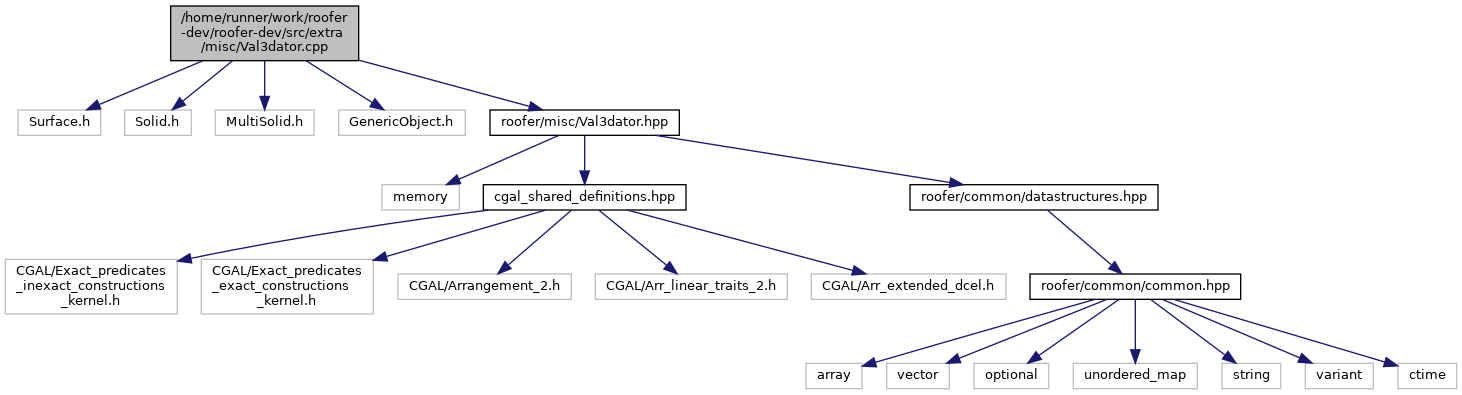
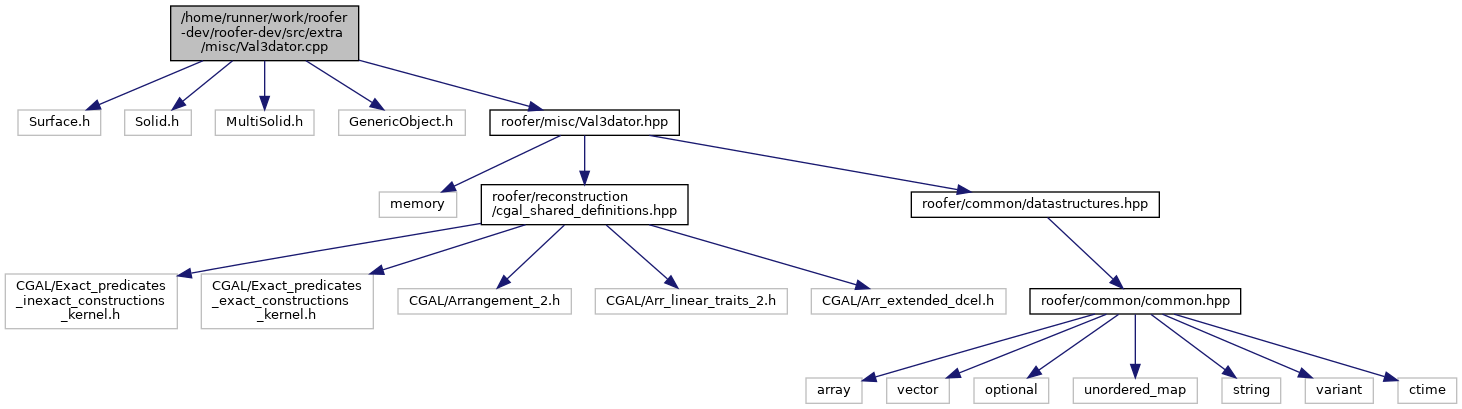
deploy: adacab7c376d5c6933e70c817b09e880449bda90

diff --git a/logger_8h_source.html b/logger_8h_source.html
@@ -154,12 +154,12 @@ $(function() {
 <div class="ttc" id="aclassroofer_1_1logger_1_1Logger_html_a6a1d8f8ffb486d251532eac3edf14b26"><div class="ttname"><a href="classroofer_1_1logger_1_1Logger.html#a6a1d8f8ffb486d251532eac3edf14b26">roofer::logger::Logger::warning</a></div><div class="ttdeci">void warning(fmt::format_string&lt; Args... &gt; fmt, Args &amp;&amp;...args)</div><div class="ttdef"><b>Definition:</b> logger.h:71</div></div>
 <div class="ttc" id="aclassroofer_1_1logger_1_1Logger_html_a8a66f77a029d2ba2918ddb418bcb233c"><div class="ttname"><a href="classroofer_1_1logger_1_1Logger.html#a8a66f77a029d2ba2918ddb418bcb233c">roofer::logger::Logger::error</a></div><div class="ttdeci">void error(fmt::format_string&lt; Args... &gt; fmt, Args &amp;&amp;...args)</div><div class="ttdef"><b>Definition:</b> logger.h:76</div></div>
 <div class="ttc" id="aclassroofer_1_1logger_1_1Logger_html_a93c798df8ffba2558db974d88a9c8ad3"><div class="ttname"><a href="classroofer_1_1logger_1_1Logger.html#a93c798df8ffba2558db974d88a9c8ad3">roofer::logger::Logger::info</a></div><div class="ttdeci">void info(fmt::format_string&lt; Args... &gt; fmt, Args &amp;&amp;...args)</div><div class="ttdef"><b>Definition:</b> logger.h:66</div></div>
-<div class="ttc" id="aclassroofer_1_1logger_1_1Logger_html_a9ae66fa2ff2a0ca649a3e145b31fcbd2"><div class="ttname"><a href="classroofer_1_1logger_1_1Logger.html#a9ae66fa2ff2a0ca649a3e145b31fcbd2">roofer::logger::Logger::get_logger</a></div><div class="ttdeci">static Logger &amp; get_logger()</div><div class="ttdoc">Returns a reference to the single logger instance.</div><div class="ttdef"><b>Definition:</b> logger.cpp:104</div></div>
+<div class="ttc" id="aclassroofer_1_1logger_1_1Logger_html_a9ae66fa2ff2a0ca649a3e145b31fcbd2"><div class="ttname"><a href="classroofer_1_1logger_1_1Logger.html#a9ae66fa2ff2a0ca649a3e145b31fcbd2">roofer::logger::Logger::get_logger</a></div><div class="ttdeci">static Logger &amp; get_logger()</div><div class="ttdoc">Returns a reference to the single logger instance.</div><div class="ttdef"><b>Definition:</b> logger.cpp:102</div></div>
 <div class="ttc" id="aclassroofer_1_1logger_1_1Logger_html_ab65290f387122f8678eb3fc0406d5129"><div class="ttname"><a href="classroofer_1_1logger_1_1Logger.html#ab65290f387122f8678eb3fc0406d5129">roofer::logger::Logger::debug</a></div><div class="ttdeci">void debug(fmt::format_string&lt; Args... &gt; fmt, Args &amp;&amp;...args)</div><div class="ttdef"><b>Definition:</b> logger.h:61</div></div>
-<div class="ttc" id="aclassroofer_1_1logger_1_1Logger_html_abaf92514bcc9039aa8437c6ab6e5150c"><div class="ttname"><a href="classroofer_1_1logger_1_1Logger.html#abaf92514bcc9039aa8437c6ab6e5150c">roofer::logger::Logger::set_level</a></div><div class="ttdeci">void set_level(LogLevel level)</div><div class="ttdoc">Set the minimum level for the logger implementation.</div><div class="ttdef"><b>Definition:</b> logger.cpp:99</div></div>
+<div class="ttc" id="aclassroofer_1_1logger_1_1Logger_html_abaf92514bcc9039aa8437c6ab6e5150c"><div class="ttname"><a href="classroofer_1_1logger_1_1Logger.html#abaf92514bcc9039aa8437c6ab6e5150c">roofer::logger::Logger::set_level</a></div><div class="ttdeci">void set_level(LogLevel level)</div><div class="ttdoc">Set the minimum level for the logger implementation.</div><div class="ttdef"><b>Definition:</b> logger.cpp:97</div></div>
 <div class="ttc" id="aclassroofer_1_1logger_1_1Logger_html_abc5eed947d380872549687e7aa02389e"><div class="ttname"><a href="classroofer_1_1logger_1_1Logger.html#abc5eed947d380872549687e7aa02389e">roofer::logger::Logger::~Logger</a></div><div class="ttdeci">~Logger()=default</div></div>
 <div class="ttc" id="aclassroofer_1_1logger_1_1Logger_html_adb2f083c86b41b0d7c11d1ef8833f4c7"><div class="ttname"><a href="classroofer_1_1logger_1_1Logger.html#adb2f083c86b41b0d7c11d1ef8833f4c7">roofer::logger::Logger::critical</a></div><div class="ttdeci">void critical(fmt::format_string&lt; Args... &gt; fmt, Args &amp;&amp;...args)</div><div class="ttdef"><b>Definition:</b> logger.h:81</div></div>
-<div class="ttc" id="anamespaceroofer_1_1logger_html"><div class="ttname"><a href="namespaceroofer_1_1logger.html">roofer::logger</a></div><div class="ttdoc">Logger library for roofer.</div><div class="ttdef"><b>Definition:</b> logger.cpp:42</div></div>
+<div class="ttc" id="anamespaceroofer_1_1logger_html"><div class="ttname"><a href="namespaceroofer_1_1logger.html">roofer::logger</a></div><div class="ttdoc">Logger library for roofer.</div><div class="ttdef"><b>Definition:</b> logger.cpp:40</div></div>
 <div class="ttc" id="anamespaceroofer_1_1logger_html_a78852f4f987d2d2adc98bc4232184047"><div class="ttname"><a href="namespaceroofer_1_1logger.html#a78852f4f987d2d2adc98bc4232184047">roofer::logger::LogLevel</a></div><div class="ttdeci">LogLevel</div><div class="ttdef"><b>Definition:</b> logger.h:28</div></div>
 <div class="ttc" id="anamespaceroofer_1_1logger_html_a78852f4f987d2d2adc98bc4232184047a3262d48df5d75e3452f0f16b313b7808"><div class="ttname"><a href="namespaceroofer_1_1logger.html#a78852f4f987d2d2adc98bc4232184047a3262d48df5d75e3452f0f16b313b7808">roofer::logger::LogLevel::off</a></div><div class="ttdeci">@ off</div></div>
 <div class="ttc" id="anamespaceroofer_1_1logger_html_a78852f4f987d2d2adc98bc4232184047a6637b88286cba926cc1bb0ef49f9d2e8"><div class="ttname"><a href="namespaceroofer_1_1logger.html#a78852f4f987d2d2adc98bc4232184047a6637b88286cba926cc1bb0ef49f9d2e8">roofer::logger::LogLevel::default_level</a></div><div class="ttdeci">@ default_level</div></div>

diff --git a/Val3dator_8hpp.html b/Val3dator_8hpp.html
@@ -75,7 +75,7 @@ $(function() {
 </div><!--header-->
 <div class="contents">
 <div class="textblock"><code>#include &lt;memory&gt;</code><br />
-<code>#include &quot;<a class="el" href="cgal__shared__definitions_8hpp_source.html">cgal_shared_definitions.hpp</a>&quot;</code><br />
+<code>#include &quot;<a class="el" href="cgal__shared__definitions_8hpp_source.html">roofer/reconstruction/cgal_shared_definitions.hpp</a>&quot;</code><br />
 <code>#include &lt;<a class="el" href="datastructures_8hpp_source.html">roofer/common/datastructures.hpp</a>&gt;</code><br />
 </div><div class="textblock"><div class="dynheader">
 Include dependency graph for Val3dator.hpp:</div>
@@ -83,22 +83,22 @@ Include dependency graph for Val3dator.hpp:</div>
 <div class="center"><img src="Val3dator_8hpp__incl.png" border="0" usemap="#a_2home_2runner_2work_2roofer-dev_2roofer-dev_2include_2roofer_2misc_2Val3dator_8hpp" alt=""/></div>
 <map name="a_2home_2runner_2work_2roofer-dev_2roofer-dev_2include_2roofer_2misc_2Val3dator_8hpp" id="a_2home_2runner_2work_2roofer-dev_2roofer-dev_2include_2roofer_2misc_2Val3dator_8hpp">
 <area shape="rect" title=" " alt="" coords="488,5,681,61"/>
-<area shape="rect" title=" " alt="" coords="382,109,459,136"/>
-<area shape="rect" href="cgal__shared__definitions_8hpp.html" title=" " alt="" coords="483,109,686,136"/>
-<area shape="rect" href="datastructures_8hpp.html" title=" " alt="" coords="910,109,1158,136"/>
-<area shape="rect" title=" " alt="" coords="5,184,177,240"/>
-<area shape="rect" title=" " alt="" coords="201,184,373,240"/>
-<area shape="rect" title=" " alt="" coords="398,199,571,225"/>
-<area shape="rect" title=" " alt="" coords="595,199,787,225"/>
-<area shape="rect" title=" " alt="" coords="811,199,1006,225"/>
-<area shape="rect" href="common_8hpp.html" title=" " alt="" coords="1030,199,1241,225"/>
-<area shape="rect" title=" " alt="" coords="806,288,862,315"/>
-<area shape="rect" title=" " alt="" coords="887,288,949,315"/>
-<area shape="rect" title=" " alt="" coords="974,288,1049,315"/>
-<area shape="rect" title=" " alt="" coords="1073,288,1197,315"/>
-<area shape="rect" title=" " alt="" coords="1222,288,1281,315"/>
-<area shape="rect" title=" " alt="" coords="1305,288,1373,315"/>
-<area shape="rect" title=" " alt="" coords="1398,288,1457,315"/>
+<area shape="rect" title=" " alt="" coords="379,117,457,143"/>
+<area shape="rect" href="cgal__shared__definitions_8hpp.html" title=" " alt="" coords="481,109,688,151"/>
+<area shape="rect" href="datastructures_8hpp.html" title=" " alt="" coords="911,117,1159,143"/>
+<area shape="rect" title=" " alt="" coords="5,199,177,255"/>
+<area shape="rect" title=" " alt="" coords="201,199,373,255"/>
+<area shape="rect" title=" " alt="" coords="398,213,571,240"/>
+<area shape="rect" title=" " alt="" coords="595,213,787,240"/>
+<area shape="rect" title=" " alt="" coords="811,213,1006,240"/>
+<area shape="rect" href="common_8hpp.html" title=" " alt="" coords="1030,213,1241,240"/>
+<area shape="rect" title=" " alt="" coords="806,303,862,329"/>
+<area shape="rect" title=" " alt="" coords="887,303,949,329"/>
+<area shape="rect" title=" " alt="" coords="974,303,1049,329"/>
+<area shape="rect" title=" " alt="" coords="1073,303,1197,329"/>
+<area shape="rect" title=" " alt="" coords="1222,303,1281,329"/>
+<area shape="rect" title=" " alt="" coords="1305,303,1373,329"/>
+<area shape="rect" title=" " alt="" coords="1398,303,1457,329"/>
 </map>
 </div>
 </div><div class="textblock"><div class="dynheader">

diff --git a/logger_8cpp.html b/logger_8cpp.html
@@ -73,8 +73,7 @@ $(function() {
 <div class="title">logger.cpp File Reference</div>  </div>
 </div><!--header-->
 <div class="contents">
-<div class="textblock"><code>#include &quot;config.hpp&quot;</code><br />
-<code>#include &lt;array&gt;</code><br />
+<div class="textblock"><code>#include &lt;array&gt;</code><br />
 <code>#include &lt;cassert&gt;</code><br />
 <code>#include &lt;chrono&gt;</code><br />
 <code>#include &lt;condition_variable&gt;</code><br />
@@ -90,24 +89,23 @@ Include dependency graph for logger.cpp:</div>
 <div class="dyncontent">
 <div class="center"><img src="logger_8cpp__incl.png" border="0" usemap="#a_2home_2runner_2work_2roofer-dev_2roofer-dev_2src_2core_2logger_2logger_8cpp" alt=""/></div>
 <map name="a_2home_2runner_2work_2roofer-dev_2roofer-dev_2src_2core_2logger_2logger_8cpp" id="a_2home_2runner_2work_2roofer-dev_2roofer-dev_2src_2core_2logger_2logger_8cpp">
-<area shape="rect" title=" " alt="" coords="545,5,733,61"/>
-<area shape="rect" title=" " alt="" coords="5,109,95,136"/>
-<area shape="rect" title=" " alt="" coords="119,109,175,136"/>
-<area shape="rect" title=" " alt="" coords="199,109,269,136"/>
-<area shape="rect" title=" " alt="" coords="293,109,359,136"/>
-<area shape="rect" title=" " alt="" coords="384,109,527,136"/>
-<area shape="rect" title=" " alt="" coords="551,109,631,136"/>
-<area shape="rect" title=" " alt="" coords="655,109,719,136"/>
-<area shape="rect" title=" " alt="" coords="744,109,807,136"/>
-<area shape="rect" title=" " alt="" coords="831,109,895,136"/>
-<area shape="rect" title=" " alt="" coords="919,109,994,136"/>
-<area shape="rect" href="logger_8h.html" title=" " alt="" coords="1018,109,1181,136"/>
-<area shape="rect" title=" " alt="" coords="1205,109,1311,136"/>
-<area shape="rect" title=" " alt="" coords="882,184,959,211"/>
-<area shape="rect" title=" " alt="" coords="983,184,1042,211"/>
-<area shape="rect" title=" " alt="" coords="1066,184,1133,211"/>
-<area shape="rect" title=" " alt="" coords="1157,184,1255,211"/>
-<area shape="rect" title=" " alt="" coords="1279,184,1384,211"/>
+<area shape="rect" title=" " alt="" coords="479,5,667,61"/>
+<area shape="rect" title=" " alt="" coords="5,109,61,136"/>
+<area shape="rect" title=" " alt="" coords="85,109,155,136"/>
+<area shape="rect" title=" " alt="" coords="179,109,245,136"/>
+<area shape="rect" title=" " alt="" coords="270,109,413,136"/>
+<area shape="rect" title=" " alt="" coords="437,109,517,136"/>
+<area shape="rect" title=" " alt="" coords="541,109,605,136"/>
+<area shape="rect" title=" " alt="" coords="630,109,693,136"/>
+<area shape="rect" title=" " alt="" coords="717,109,781,136"/>
+<area shape="rect" title=" " alt="" coords="805,109,880,136"/>
+<area shape="rect" href="logger_8h.html" title=" " alt="" coords="904,109,1067,136"/>
+<area shape="rect" title=" " alt="" coords="1091,109,1197,136"/>
+<area shape="rect" title=" " alt="" coords="768,184,845,211"/>
+<area shape="rect" title=" " alt="" coords="869,184,928,211"/>
+<area shape="rect" title=" " alt="" coords="952,184,1019,211"/>
+<area shape="rect" title=" " alt="" coords="1043,184,1141,211"/>
+<area shape="rect" title=" " alt="" coords="1165,184,1270,211"/>
 </map>
 </div>
 </div><table class="memberdecls">

diff --git a/Val3dator_8cpp.html b/Val3dator_8cpp.html
@@ -90,22 +90,22 @@ Include dependency graph for Val3dator.cpp:</div>
 <area shape="rect" title=" " alt="" coords="215,109,314,136"/>
 <area shape="rect" title=" " alt="" coords="339,109,465,136"/>
 <area shape="rect" href="Val3dator_8hpp.html" title=" " alt="" coords="490,109,679,136"/>
-<area shape="rect" title=" " alt="" coords="382,184,459,211"/>
-<area shape="rect" href="cgal__shared__definitions_8hpp.html" title=" " alt="" coords="483,184,686,211"/>
-<area shape="rect" href="datastructures_8hpp.html" title=" " alt="" coords="910,184,1158,211"/>
-<area shape="rect" title=" " alt="" coords="5,259,177,315"/>
-<area shape="rect" title=" " alt="" coords="201,259,373,315"/>
-<area shape="rect" title=" " alt="" coords="398,273,571,300"/>
-<area shape="rect" title=" " alt="" coords="595,273,787,300"/>
-<area shape="rect" title=" " alt="" coords="811,273,1006,300"/>
-<area shape="rect" href="common_8hpp.html" title=" " alt="" coords="1030,273,1241,300"/>
-<area shape="rect" title=" " alt="" coords="806,363,862,389"/>
-<area shape="rect" title=" " alt="" coords="887,363,949,389"/>
-<area shape="rect" title=" " alt="" coords="974,363,1049,389"/>
-<area shape="rect" title=" " alt="" coords="1073,363,1197,389"/>
-<area shape="rect" title=" " alt="" coords="1222,363,1281,389"/>
-<area shape="rect" title=" " alt="" coords="1305,363,1373,389"/>
-<area shape="rect" title=" " alt="" coords="1398,363,1457,389"/>
+<area shape="rect" title=" " alt="" coords="379,191,457,218"/>
+<area shape="rect" href="cgal__shared__definitions_8hpp.html" title=" " alt="" coords="481,184,688,225"/>
+<area shape="rect" href="datastructures_8hpp.html" title=" " alt="" coords="911,191,1159,218"/>
+<area shape="rect" title=" " alt="" coords="5,273,177,329"/>
+<area shape="rect" title=" " alt="" coords="201,273,373,329"/>
+<area shape="rect" title=" " alt="" coords="398,288,571,315"/>
+<area shape="rect" title=" " alt="" coords="595,288,787,315"/>
+<area shape="rect" title=" " alt="" coords="811,288,1006,315"/>
+<area shape="rect" href="common_8hpp.html" title=" " alt="" coords="1030,288,1241,315"/>
+<area shape="rect" title=" " alt="" coords="806,377,862,404"/>
+<area shape="rect" title=" " alt="" coords="887,377,949,404"/>
+<area shape="rect" title=" " alt="" coords="974,377,1049,404"/>
+<area shape="rect" title=" " alt="" coords="1073,377,1197,404"/>
+<area shape="rect" title=" " alt="" coords="1222,377,1281,404"/>
+<area shape="rect" title=" " alt="" coords="1305,377,1373,404"/>
+<area shape="rect" title=" " alt="" coords="1398,377,1457,404"/>
 </map>
 </div>
 </div><table class="memberdecls">

diff --git a/Val3dator_8hpp_source.html b/Val3dator_8hpp_source.html
@@ -72,7 +72,7 @@ $(function() {
 <div class="contents">
 <a href="Val3dator_8hpp.html">Go to the documentation of this file.</a><div class="fragment"><div class="line"><a name="l00001"></a><span class="lineno">    1</span>&#160;<span class="preprocessor">#include &lt;memory&gt;</span></div>
 <div class="line"><a name="l00002"></a><span class="lineno">    2</span>&#160; </div>
-<div class="line"><a name="l00003"></a><span class="lineno">    3</span>&#160;<span class="preprocessor">#include &quot;<a class="code" href="cgal__shared__definitions_8hpp.html">cgal_shared_definitions.hpp</a>&quot;</span></div>
+<div class="line"><a name="l00003"></a><span class="lineno">    3</span>&#160;<span class="preprocessor">#include &quot;<a class="code" href="cgal__shared__definitions_8hpp.html">roofer/reconstruction/cgal_shared_definitions.hpp</a>&quot;</span></div>
 <div class="line"><a name="l00004"></a><span class="lineno">    4</span>&#160;<span class="preprocessor">#include &lt;<a class="code" href="datastructures_8hpp.html">roofer/common/datastructures.hpp</a>&gt;</span></div>
 <div class="line"><a name="l00005"></a><span class="lineno">    5</span>&#160; </div>
 <div class="line"><a name="l00006"></a><span class="lineno">    6</span>&#160;<span class="keyword">namespace </span><a class="code" href="namespaceroofer_1_1detection.html">roofer::detection</a> {</div>

diff --git a/logger__spdlog_8cpp.html b/logger__spdlog_8cpp.html
@@ -70,17 +70,7 @@ $(function() {
 <div class="title">logger_spdlog.cpp File Reference</div>  </div>
 </div><!--header-->
 <div class="contents">
-<div class="textblock"><code>#include &quot;config.hpp&quot;</code><br />
-</div><div class="textblock"><div class="dynheader">
-Include dependency graph for logger_spdlog.cpp:</div>
-<div class="dyncontent">
-<div class="center"><img src="logger__spdlog_8cpp__incl.png" border="0" usemap="#a_2home_2runner_2work_2roofer-dev_2roofer-dev_2src_2core_2logger_2logger__spdlog_8cpp" alt=""/></div>
-<map name="a_2home_2runner_2work_2roofer-dev_2roofer-dev_2src_2core_2logger_2logger__spdlog_8cpp" id="a_2home_2runner_2work_2roofer-dev_2roofer-dev_2src_2core_2logger_2logger__spdlog_8cpp">
-<area shape="rect" title=" " alt="" coords="5,5,195,61"/>
-<area shape="rect" title=" " alt="" coords="55,109,145,136"/>
-</map>
-</div>
-</div></div><!-- contents -->
+</div><!-- contents -->
 <!-- start footer part -->
 <hr class="footer"/><address class="footer"><small>
 Generated by&#160;<a href="https://www.doxygen.org/index.html"><img class="footer" src="doxygen.svg" width="104" height="31" alt="doxygen"/></a> 1.9.1
